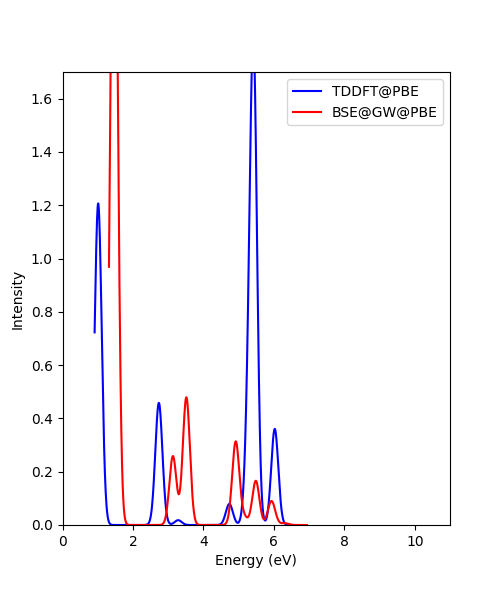
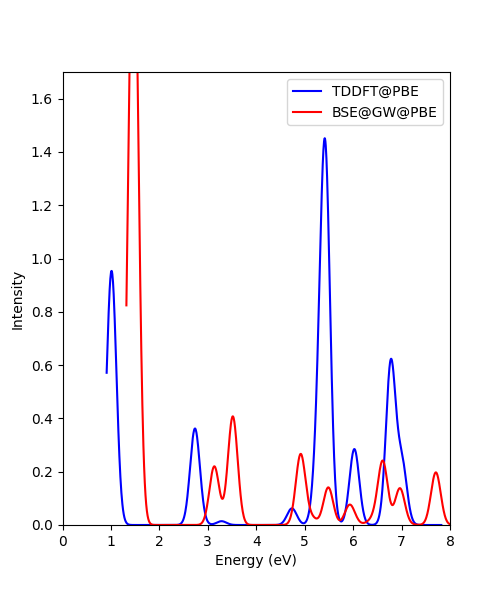
further work on spectra

Changed region(s): [[0.18, 0.12, 0.9, 0.93]]

diff --git a/periodic/spectra/new_kbse_spectra_correction_vec.py b/periodic/spectra/new_kbse_spectra_correction_vec.py
@@ -8,8 +8,17 @@ Created on Wed Nov 29 18:05:09 2023
 
 import sys
 sys.path.append('/Users/sylviabintrim/Desktop/Desktop - Sylvia’s MacBook Pro/BSE_with_kpts/static_BSE/periodic')
-
+import kbse_static_turbomole_frozen 
+from kbse_static_turbomole_frozen import BSE
 from functools import reduce
+
+from scipy.constants import physical_constants
+ha_2_ev = 1/physical_constants["electron volt-hartree relationship"][0]
+n_states=15
+spectral_width=0.1
+
+def gaussian(x, mu, sig):
+    return np.exp(-np.power(x - mu, 2.) / (2 * np.power(sig, 2.)))
 
 def get_dipole_mo(eom, pblock="occ", qblock="vir"):
     """[summary]
@@ -67,10 +76,10 @@ def get_dipole_mo(eom, pblock="occ", qblock="vir"):
             ip_mo[x, k] = reduce(np.dot, (pmo.T.conj(), ip_ao[x, k], qmo))
     
     # eia = \epsilon_a - \epsilon_i
-    # p_mo_e = [mo_energy[k][pstart:pend] for k in range(nkpts)]
-    # q_mo_e = [mo_energy[k][qstart:qend] for k in range(nkpts)]
+    # p_mo_e = [eom.mo_energy[k][pstart:pend] for k in range(nkpts)]
+    # q_mo_e = [eom.mo_energy[k][qstart:qend] for k in range(nkpts)]
 
-    # epq = np.empty((nkpts, plen, qlen), dtype=mo_energy[0].dtype)
+    # epq = np.empty((nkpts, plen, qlen), dtype=eom.mo_energy[0].dtype)
     # for k in range(nkpts):
     #     epq[k] = p_mo_e[k][:,None] - q_mo_e[k]
 
@@ -78,23 +87,15 @@ def get_dipole_mo(eom, pblock="occ", qblock="vir"):
     dipole = np.empty((3, nkpts, plen, qlen), dtype=ip_mo.dtype)
     for x in range(3):
         #TODO check: should be 1 or -1 * (\epsilon_p - \epsison_q)
-        # dipole[x] = -1. * ip_mo[x] / epq
+        # dipole[x] = 1. * ip_mo[x] / epq
 
         # switch to pure momentum operator (is it the velocity gauge in dipole approximation?)
         dipole[x] = ip_mo[x]
 
     return dipole
 
-from scipy.constants import physical_constants
-ha_2_ev = 1/physical_constants["electron volt-hartree relationship"][0]
-n_states=15
-spectral_width=0.1
-
-def gaussian(x, mu, sig):
-    return np.exp(-np.power(x - mu, 2.) / (2 * np.power(sig, 2.)))
-
 import scipy
-def optical_absorption_singlet(eom, scan, eta, kshift=0, tol=1e-5, maxiter=500):
+def optical_absorption_singlet(eom, scan, eta=0.1, kshift=0, tol=1e-5, maxiter=500, **kwargs):
     """Compute BSE spectra.
 
     Args:
@@ -106,40 +107,32 @@ def optical_absorption_singlet(eom, scan, eta, kshift=0, tol=1e-5, maxiter=500):
         maxiter (int, optional): [description]. Defaults to 500.
     """
     
-    #OK
     ieta = 1j*eta
     omega_list = scan
-    spectrum = np.zeros((3, len(omega_list)), dtype=np.complex)
+    spectrum = np.zeros((3, len(omega_list)), dtype=complex)
     
-    from pyscf.pbc.ci import kcis_rhf
-    counter = kcis_rhf.gmres_counter(rel=True)
+    # from pyscf.pbc.ci import kcis_rhf
+    # counter = kcis_rhf.gmres_counter(rel=True)
     LinearSolver = scipy.sparse.linalg.gcrotmk
     
-    
-    
-    
-    dipole = get_dipole_mo(eom, "all", "all")
+    dipole = get_dipole_mo(eom)
 
-    # b = <\Phi_{\alpha} | \bar{\dipole} | \Phi_0>
+    # b = <\Phi_{\alpha} | \dipole | \Phi_0>
     # b is needed to solve a.x=b linear equations
-    b0, b_vector = get_effective_dipole_left(eom, dipole, kshift)
-    b_size = b_vector.shape[1]
-    # check the \phi_0 component of b vector
-    print(f"b0 = {b0}")
-    if any(abs(b0) > 1e-6):
-        logger.warn(eom, 'Large b0 detected! b0 (x,y,z) = {}). Consider adding b0.conj() * x0 contribution \
-                    to spectra'.format(b0))
+    b_vector = dipole.reshape((np.shape(dipole)[0], -1))
+    b_size = np.shape(b_vector)[-1]
 
-    # e = <\Phi_0 | (1+\Lambda) \bar{\dipole^{\dagger}} | \Phi_{\alpha}>
-    e0, e_vector = get_effective_dipole_right(eom, dipole, kshift, ov_oovv=b_vector)
+    # e = <\Phi_0 | \dipole^{\dagger} | \Phi_{\alpha}>
+    e_vector = dipole.conj().reshape((np.shape(dipole)[0], -1))
 
     # solve linear equations A.x = b
-    diag = eom.get_diag(kshift, imds)
-    if x0 is None:
-        x0 = np.zeros((3, b_size), dtype=b_vector.dtype)
+    orbs = [x for x in range(eom.mf_nmo)] #TODO: fix this
+    qkLij, qeps_body_inv, all_kidx_r = kbse_static_turbomole_frozen.make_imds(eom.gw, orbs)
+    diag = eom.get_diag(qkLij[0,:], qeps_body_inv[0], orbs)
+    x0 = np.zeros((3, b_size), dtype=b_vector.dtype)
 
     for i, omega in enumerate(omega_list):
-        matvec = lambda vec: eeccsd_matvec_singlet(eom, vec, kshift, imds=imds) * (-1.) + (omega + ieta) * vec
+        matvec = lambda vec: kbse_static_turbomole_frozen.matvec(eom, vec, qkLij, qeps_body_inv, all_kidx_r, orbs) * (-1.) + (omega + ieta) * vec
         A = scipy.sparse.linalg.LinearOperator((b_size, b_size), matvec=matvec, dtype=diag.dtype)
 
         # preconditioner
@@ -149,27 +142,13 @@ def optical_absorption_singlet(eom, scan, eta, kshift=0, tol=1e-5, maxiter=500):
 
         for x in range(3):
 
-            sol, info = LinearSolver(A, b_vector[x], x0=x0[x], tol=tol, maxiter=maxiter, M=M, callback=counter,
+            sol, info = LinearSolver(A, b_vector[x], x0=x0[x], tol=tol, maxiter=maxiter, M=M,
                                      **kwargs)
-            if info == 0:
-                print('Frequency', np.round(omega,3), 'converged in', counter.niter, 'iterations')
-            else:
-                print('Frequency', np.round(omega,3), 'not converged after', counter.niter, 'iterations')
-            counter.reset()
 
             x0[x] = sol
             spectrum[x,i] = np.dot(e_vector[x], sol)
 
-            sol0 = b0[x] + np.dot(sol, amplitudes_to_vector_singlet(imds.Fov, imds.woOvV, kconserv2))
-            sol0 /= omega + ieta
-            spec0 = e0[x] * sol0
-            
-            #OK
-            logger.debug(eom, 'b0.conj * x0 contribution to spectrum = %.15g', spec0)
-
-            spectrum[x, i] += spec0
-
-    return -1./np.pi*spectrum.imag, x0
+    return spectrum.imag*(-1./np.pi)
 
 def XiaoStyleSpectra(mybse, nexc=n_states):
     """Compute full CCSD spectra.
@@ -199,7 +178,7 @@ def XiaoStyleSpectra(mybse, nexc=n_states):
             f = abs(np.sum(dipole[x]*xy[0]))**2 #0 to take just TDA part
             intensity_bse[x,:] += gaussian(x_range_bse, e, spectral_width) * f
 
-    intensity_bse = (2/3)*np.sum(intensity_bse, axis=0)/x_range_bse#**2
+    intensity_bse = (2/3)*np.sum(intensity_bse, axis=0)/x_range_bse**2
 
     # # Rough Normalization
     dx = (x_range_bse[-1] - x_range_bse[0])/x_range_bse.size
@@ -209,7 +188,6 @@ def XiaoStyleSpectra(mybse, nexc=n_states):
     return x_range_bse, intensity_bse
 
 if __name__ == '__main__':
-    from kbse_static_turbomole_frozen import BSE
     from pyscf.pbc import gto, dft
     import numpy as np
     # from pyscf.pbc.tools import pyscf_ase, lattice
@@ -235,7 +213,7 @@ if __name__ == '__main__':
     cell = gto.Cell()
     cell.build(
             a = np.eye(3),
-           mesh = [50]*3,
+           # mesh = [50]*3,
             atom = """  C      1.0701      0.4341     -0.0336
           C      0.8115     -0.9049     -0.1725
           C     -0.6249     -1.0279     -0.0726
@@ -245,7 +223,8 @@ if __name__ == '__main__':
           O     -0.0873      1.1351      0.1422
           N     -1.1414      0.1776      0.1122""",
             dimension = 0,
-            basis = 'gth-dzvp')
+            basis = 'gth-dzvp',
+            verbose=9)
     
     kdensity = 1
     kmesh = [kdensity, kdensity, kdensity]
@@ -271,13 +250,18 @@ if __name__ == '__main__':
     print('gw mo energies', mygw.mo_energy)
     mybse = BSE(mygw, TDA=True, singlet=True)
     
+    #Just to get x axis
+    conv, excitations, es, xys = mybse.kernel(nstates=n_states)
+    energies_ev = np.asarray(es)[:n_states-5]*ha_2_ev
+    x_range_bse = np.linspace(energies_ev.min()*0.9, energies_ev.max()*1.1, num=300)
     
-    x_range_bse, intensity_bse = XiaoStyleSpectra(mybse)
+    intensity_bse = np.sum(optical_absorption_singlet(mybse, x_range_bse), axis=0)/x_range_bse**2
+    # x_range_bse, intensity_bse = XiaoStyleSpectra(mybse)
     import matplotlib.pyplot as plt
     ax = plt.figure(figsize=(5, 6), dpi=100).add_subplot()
     # ax.plot(x_range_tddft, intensity_tddft, label='TDDFT@'+xc)
     ax.plot(x_range_bse, intensity_bse, label='BSE@GW@'+xc, color='red')
     plt.ylim([0,1.7])
-    plt.xlim([0,11])
+    plt.xlim([0,8])
     plt.legend(loc='best')
-    plt.savefig('periodic_enumerated_spectrum.png')
+    plt.savefig('periodic_correction_vec_spectrum.png')

diff --git a/periodic/spectra/kbse_spectra_enumeration.py b/periodic/spectra/kbse_spectra_enumeration.py
@@ -29,7 +29,7 @@ def get_dipole_mo(eom, pblock="occ", qblock="vir"):
     if hasattr(eom, 'kpts'):
         kpts = eom.kpts
     else:
-        kpts = eom._scf.cell.kpts#[[0,0,0]] #trying to include tddft
+        kpts = [[0,0,0]] #trying to include tddft
     nkpts = len(kpts)
     if hasattr(eom, 'mf_nocc'):
         nocc = eom.mf_nocc
@@ -99,7 +99,7 @@ def get_dipole_mo(eom, pblock="occ", qblock="vir"):
 
 from scipy.constants import physical_constants
 ha_2_ev = 1/physical_constants["electron volt-hartree relationship"][0]
-n_states=15
+n_states=20
 spectral_width=0.1
 
 def gaussian(x, mu, sig):
@@ -174,7 +174,7 @@ if __name__ == '__main__':
     cell = gto.Cell()
     cell.build(
             a = np.eye(3),
-           mesh = [50]*3,
+            # mesh = [20]*3,
             atom = """  C      1.0701      0.4341     -0.0336
           C      0.8115     -0.9049     -0.1725
           C     -0.6249     -1.0279     -0.0726
@@ -184,7 +184,8 @@ if __name__ == '__main__':
           O     -0.0873      1.1351      0.1422
           N     -1.1414      0.1776      0.1122""",
             dimension = 0,
-            basis = 'gth-dzvp')
+            basis = 'gth-dzvp',
+            verbose=9)
     
     kdensity = 1
     kmesh = [kdensity, kdensity, kdensity]
@@ -214,12 +215,15 @@ if __name__ == '__main__':
     mybse = mymf.TDDFT()
     mybse.nstates = n_states
     
-    x_range_bse, intensity_bse = XiaoStyleSpectra(mybse)
+    # x_range_bse, intensity_bse = XiaoStyleSpectra(mybse)
+    x_range_tddft, intensity_tddft = XiaoStyleSpectra(mybse)
     import matplotlib.pyplot as plt
     ax = plt.figure(figsize=(5, 6), dpi=100).add_subplot()
-    # ax.plot(x_range_tddft, intensity_tddft, label='TDDFT@'+xc)
-    ax.plot(x_range_bse, intensity_bse, label='BSE@GW@'+xc, color='blue')
+    ax.plot(x_range_tddft, intensity_tddft, label='TDDFT@'+xc)
+    # ax.plot(x_range_bse, intensity_bse, label='BSE@GW@'+xc, color='red')
     plt.ylim([0,1.7])
-    plt.xlim([0,11])
+    plt.xlim([0,8])
+    plt.xlabel("Energy (eV)")
+    plt.ylabel("Intensity")
     plt.legend(loc='best')
     plt.savefig('periodic_enumerated_spectrum_tddft.png')

diff --git a/molecular/spectra/spectra_enumeration.py b/molecular/spectra/spectra_enumeration.py
@@ -13,7 +13,7 @@ import numpy as np
 from scipy.constants import physical_constants
 
 ha_2_ev = 1/physical_constants["electron volt-hartree relationship"][0]
-n_states=15
+n_states=20
 spectral_width=0.1
 
 def gaussian(x, mu, sig):
@@ -28,6 +28,8 @@ def JamesSmithSpectra(mytd, mybse):
     energies_ev = mytd.e[:n_states-5]*ha_2_ev
     x_range_tddft = np.linspace(energies_ev.min()*0.9, energies_ev.max()*1.1, num=1000)
     intensity_tddft = np.zeros(x_range_tddft.size)
+
+    print('energies_ev', energies_ev)
 
     for e, f in zip(energies_ev, osc_strengths):
         intensity_tddft += gaussian(x_range_tddft, e, spectral_width) * f
@@ -201,10 +203,10 @@ if __name__ == '__main__':
      import matplotlib.pyplot as plt
      ax = plt.figure(figsize=(5, 6), dpi=100).add_subplot()
      ax.plot(x_range_tddft, intensity_tddft, label='TDDFT@'+xc, color='blue')
-     ax.plot(x_range_bse, intensity_bse, label='BSE@GW@'+xc, color='red')
+     # ax.plot(x_range_bse, intensity_bse, label='BSE@GW@'+xc, color='red')
      plt.ylim([0,1.7])
-     plt.xlim([0,11])
+     plt.xlim([0,8])
      plt.xlabel("Energy (eV)")
      plt.ylabel("Intensity")
      plt.legend(loc='best')
-     plt.savefig('mol_enumerated_spectrum_JETS_vel_gauge.png')
+     plt.savefig('mol_enumerated_spectrum_JETS_velocity_gauge_TDDFT.png')
